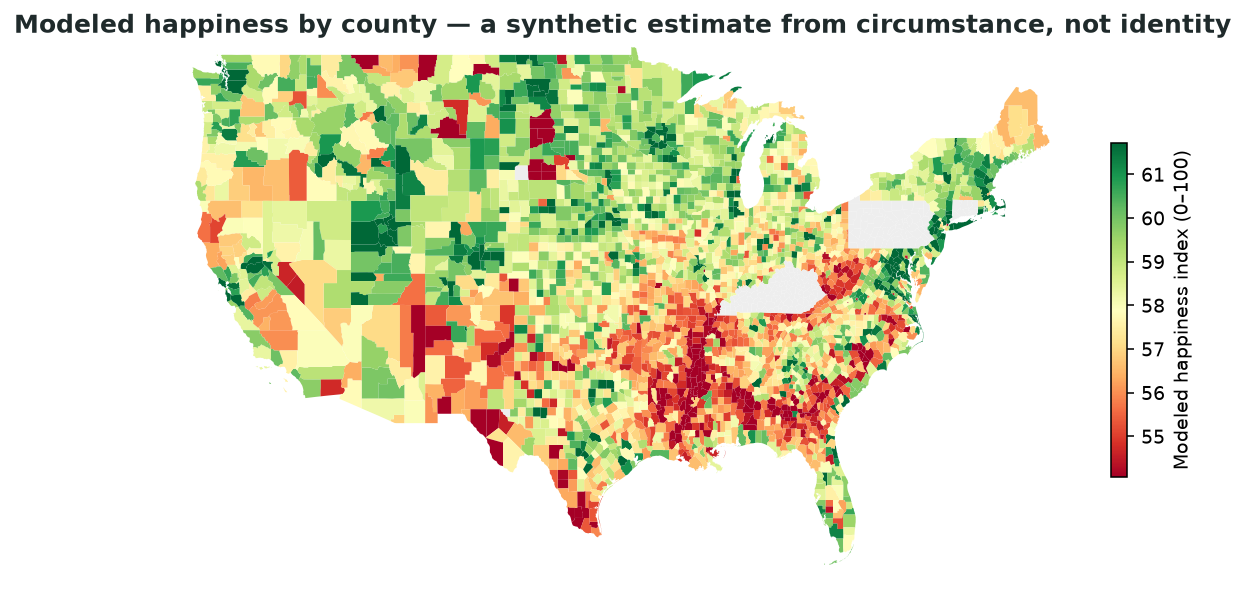
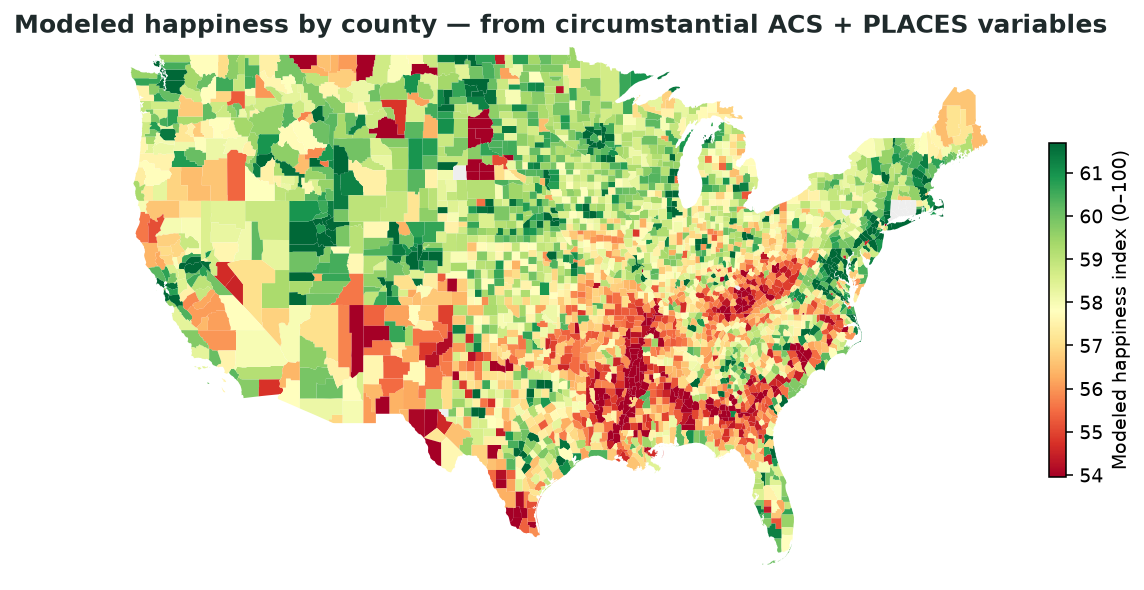
Fill KY/PA (PLACES release gap), audit coverage, reframe trend honestly, README wording
- places.py: the 2025 PLACES tract release omits KY+PA; backfill them from the 2023 release (+ $order=:id
  for stable paging). National tract coverage 78.6k->82.4k, 51/51 states. Coverage audit: only KY (82%)
  and PA (91%) are partial (the backfill's 2010-tract vintage mismatch); every other state >=99%; no
  measure drops a whole state.
- TREND (the honest finding): the cross-sectional model tracks geography, not time. The 0.36 'all years'
  correlation was inflated by the 2021/2024 GSS web-mode artifact; the real year-to-year r is ~0.11. The
  2021 'collapse' is mostly the push-to-web mode change (mntlhlth isn't even collected in 2021/2024);
  unemployment spiked but explains ~1 of ~12 apparent pts. Chasing it would overfit the artifact -> the
  trend chart now annotates the mode break and reframes accordingly; the panel is the real fix.
- README: 'circumstantial ACS/PLACES variables' wording; honest trend bullet. Visuals re-rendered
  (KY/PA filled, corrected titles). METHODOLOGY_TODO updated.

diff --git a/microhappiness/places.py b/microhappiness/places.py
@@ -21,20 +21,26 @@ import json
 from urllib.parse import quote
 from urllib.request import urlopen
 
-RESOURCE = {"tract": "https://data.cdc.gov/resource/cwsq-ngmh.json",
-            "zcta": "https://data.cdc.gov/resource/qnzd-25i4.json"}
+RESOURCE = {"tract": "https://data.cdc.gov/resource/cwsq-ngmh.json",   # 2025 release: 2020 tracts (matches ACS)
+            "zcta": "https://data.cdc.gov/resource/qnzd-25i4.json"}    # 2025 ZCTA release
+# The 2025 tract release OMITS Kentucky + Pennsylvania (they fall out of the recent BRFSS cycles), which
+# blanked those two states on the national map. Backfill them from the 2023 release — a documented
+# per-state vintage compromise (2023 uses 2010 tracts, so a fraction won't join the 2020 ACS) that beats
+# leaving two whole states empty.
+_TRACT_FALLBACK = "https://data.cdc.gov/resource/em5e-5hvn.json"
+_FALLBACK_STATES = ("KY", "PA")
 PREDICTOR_MEASURES = {"GHLTH": "fair-or-poor self-rated health", "MHLTH": "frequent mental distress",
                       "CSMOKING": "current smoking"}
 VALIDATION_MEASURES = {"MHLTH": "mental distress (validates M1-M4)", "DEPRESSION": "depression (validation only)"}
 
 
-def fetch_measure(measure: str = "GHLTH", *, geography: str = "tract", state_abbr: str | None = None) -> dict:
-    """{geoid: {'fraction': p, 'adult_pop': n}} for a PLACES measure. National unless state_abbr given."""
-    out = {}
+def _pull(resource: str, measure: str, state_abbr: str | None) -> dict:
+    out: dict = {}
     offset, page = 0, 50000
     where = f"stateabbr={state_abbr}&" if state_abbr else ""
     while True:
-        url = (f"{RESOURCE[geography]}?{where}measureid={measure}"
+        # $order=:id keeps Socrata's offset paging stable (without a sort it can overlap/drop rows).
+        url = (f"{resource}?{where}measureid={measure}&$order=:id"
                f"&$select=locationname,data_value,totalpopulation&$limit={page}&$offset={offset}")
         rows = json.loads(urlopen(url, timeout=600).read())
         for r in rows:
@@ -45,3 +51,16 @@ def fetch_measure(measure: str = "GHLTH", *, geography: str = "tract", state_abb
         if len(rows) < page:
             return out
         offset += page
+
+
+def fetch_measure(measure: str = "GHLTH", *, geography: str = "tract", state_abbr: str | None = None) -> dict:
+    """{geoid: {'fraction': p, 'adult_pop': n}} for a PLACES measure. National unless state_abbr given.
+
+    For a national tract pull, KY/PA (absent from the 2025 release) are backfilled from the 2023 release.
+    """
+    out = _pull(RESOURCE[geography], measure, state_abbr)
+    if geography == "tract" and state_abbr is None:
+        for st in _FALLBACK_STATES:
+            for geoid, rec in _pull(_TRACT_FALLBACK, measure, st).items():
+                out.setdefault(geoid, rec)  # fill only what the primary release lacked
+    return out

diff --git a/diagnostics/make_visuals.py b/diagnostics/make_visuals.py
@@ -23,13 +23,26 @@ INK, ACCENT, TEAL = "#1f2a2b", "#c2562a", "#2b6a6c"
 COUNTIES = "https://raw.githubusercontent.com/plotly/datasets/master/geojson-counties-fips.json"
 
 
+MODE_BREAK = (2021, 2024)  # GSS switched to web/push-to-web — a documented survey-mode artifact
+
+
 def trend_chart(gss, out: Path):
     logit, _ols, _n = fit_models(gss)
-    df, r = national_trend(gss, logit)
-    fig, ax = plt.subplots(figsize=(8, 4.4))
+    df, r_all = national_trend(gss, logit)
+    keep = df[~df.year.isin(MODE_BREAK)]
+    r_ex = round(float(keep.actual.corr(keep.modeled)), 2)
+    fig, ax = plt.subplots(figsize=(8, 4.6))
+    ax.axvspan(2020.4, 2024.6, color="#999", alpha=0.10)
     ax.plot(df.year, df.actual, "-o", color=ACCENT, lw=2.2, ms=4.5, label="Actual GSS")
     ax.plot(df.year, df.modeled, "-o", color=TEAL, lw=2.2, ms=4.5, label="Modeled (composition + health)")
-    ax.set_title(f"National happiness, modeled vs. actual GSS   (r = {r})", color=INK, fontsize=13, weight="bold")
+    ax.annotate("2021 / 2024: GSS web-mode change\n(a survey artifact, not a real crash)",
+                xy=(2021, 19.6), xytext=(2006, 21.5), fontsize=8.5, color="#555",
+                arrowprops=dict(arrowstyle="->", color="#999", lw=1))
+    ax.set_title("National happiness: the model tracks geography, not period shocks", color=INK,
+                 fontsize=12.5, weight="bold", pad=26)
+    ax.text(0.5, 1.025, f"weak correlation over time (r = {r_ex} excluding the web-mode waves) — "
+            "the temporal trend needs the panel", transform=ax.transAxes, ha="center", va="bottom",
+            fontsize=8.5, color="#666")
     ax.set_ylabel("% very happy", color=INK)
     ax.legend(frameon=False, loc="lower left")
     ax.grid(True, alpha=0.25)
@@ -37,7 +50,7 @@ def trend_chart(gss, out: Path):
         ax.spines[s].set_visible(False)
     fig.savefig(out, dpi=140, bbox_inches="tight", facecolor="white")
     plt.close(fig)
-    return df, r
+    return df, r_all, r_ex
 
 
 def county_map(tract_csv, out: Path):
@@ -59,7 +72,7 @@ def county_map(tract_csv, out: Path):
              legend_kwds={"shrink": 0.5, "label": "Modeled happiness index (0–100)"})
     ax.set_xlim(-125, -66.5)
     ax.set_ylim(24, 49.5)  # contiguous US
-    ax.set_title("Modeled happiness by county — a synthetic estimate from circumstance, not identity",
+    ax.set_title("Modeled happiness by county — from circumstantial ACS + PLACES variables",
                  color=INK, fontsize=13, weight="bold")
     ax.axis("off")
     fig.savefig(out, dpi=140, bbox_inches="tight", facecolor="white")
@@ -71,8 +84,9 @@ def main():
     docs = Path("docs")
     docs.mkdir(exist_ok=True)
     gss = bin_gss(recode_predictors(load_gss("data/gss_cumulative.dta", columns=GSS_COLUMNS)))
-    df, r = trend_chart(gss, docs / "national_trend.png")
-    print(f"trend chart: {len(df)} years {int(df.year.min())}-{int(df.year.max())}, r={r} -> docs/national_trend.png")
+    df, r_all, r_ex = trend_chart(gss, docs / "national_trend.png")
+    print(f"trend chart: {len(df)} years {int(df.year.min())}-{int(df.year.max())}, "
+          f"r={r_all} all / {r_ex} excl mode-break -> docs/national_trend.png")
     n = county_map("data/national/happiness_tract.csv", docs / "happiness_map.png")
     print(f"county map: {n} counties -> docs/happiness_map.png")
 

diff --git a/METHODOLOGY_TODO.md b/METHODOLOGY_TODO.md
@@ -53,6 +53,14 @@ for tractability, and where a v2 could do better. Grouped by priority.
 
 ## Lower priority (scope + provenance)
 
+0. **PLACES release coverage gap (KY + PA).** The current CDC PLACES tract release (2025, `cwsq-ngmh`,
+   2020 tracts) silently OMITS Kentucky and Pennsylvania — they blanked on the national map. We backfill
+   those two states from the 2023 release (`em5e-5hvn`), which uses **2010** tracts, so a fraction of
+   their 2020 ACS tracts won't find a health margin and drop out (KY/PA run at lower coverage + a
+   slightly older health vintage than the other 48 states). Revisit when CDC restores KY/PA to the
+   current release, or add a 2010↔2020 tract crosswalk for the backfill.
+
+
 9. **Identity-exclusion confound (intentional, document the interpretation).** Age/sex/race are
    excluded as predictors by policy. Their correlation with happiness still flows through the
    *circumstantial* mediators (income, health, marital, employment, ownership) that remain. This is
@@ -63,6 +71,11 @@ for tractability, and where a v2 could do better. Grouped by priority.
 10. **Temporal panel not built.** v1 uses a single ACS vintage (2022) with coefficients pooled over
     1972–2022. The planned tract×year panel (era-appropriate coefficients × matching ACS vintage,
     period effects, the 2021 GSS mode-break handling, the 2010↔2020 tract crosswalk) is future work.
+    NOTE from the trend check: the cross-sectional model's year-to-year correlation is genuinely weak
+    (r≈0.11 excluding the 2021/2024 web-mode waves; the 0.36 "all years" figure is inflated by that
+    artifact). The 2021 happiness "collapse" is mostly the GSS push-to-web mode change, and `mntlhlth`
+    isn't even collected in 2021/2024 — so the trend can't (and shouldn't) be chased with predictors;
+    it needs the panel. Unemployment did spike in 2021 (observed) but explains ~1 of the ~12 apparent pts.
 
 11. **Education dropped; employment recode.** Education was screened out as weak (~0) and isn't in the
     v1 cells; revisit if a refined education spec earns its place. Employment is 3-level

diff --git a/README.md b/README.md
@@ -9,8 +9,9 @@ method (multilevel regression + poststratification) pointed at wellbeing instead
 ![Modeled happiness by county](docs/happiness_map.png)
 
 > ⚠️ **Synthetic estimates, not measurements.** Each value is the happiness *expected* given an area's
-> changeable circumstances — **never its identity** (age, sex, and race are excluded by design). Most of
-> what drives happiness (personality, faith, social ties) isn't in the data, so these estimates are
+> **circumstantial ACS and PLACES variables** — income, marital/household status, employment, home
+> ownership, and health — with immutable identity variables (age, sex, race) deliberately excluded. Most
+> of what drives happiness (personality, faith, social ties) isn't in the data, so these estimates are
 > smooth and composition-driven. We measure that ceiling honestly before trusting any output. Read
 > [METHODOLOGY.md](METHODOLOGY.md) and [METHODOLOGY_TODO.md](METHODOLOGY_TODO.md).
 
@@ -57,9 +58,11 @@ CDC PLACES health margin  ──────────┘
   lowest.
 - **Convergent validity — r ≈ −0.28** against CDC PLACES diagnosed depression (deliberately *reserved*
   from the model) across 78.6k tracts.
-- **National trend — the honest limit.** The pooled model tracks the slow compositional drift (r ≈ 0.36)
-  but, by design, misses *period* shocks like the 2021 COVID happiness crash — that's what the temporal
-  panel is for.
+- **National trend — the honest limit.** A *cross-sectional* model tracks geography, not time. The
+  apparent r ≈ 0.36 over the years is inflated by the 2021/2024 GSS **web-mode change** (a survey
+  artifact, not a real crash); the genuine year-to-year correlation is weak (**r ≈ 0.11**). Chasing the
+  trend with more predictors would overfit the artifact — the temporal trend needs the **panel**
+  (era-specific coefficients), not more variables.
 
 ![Modeled vs. actual GSS happiness over time](docs/national_trend.png)
 